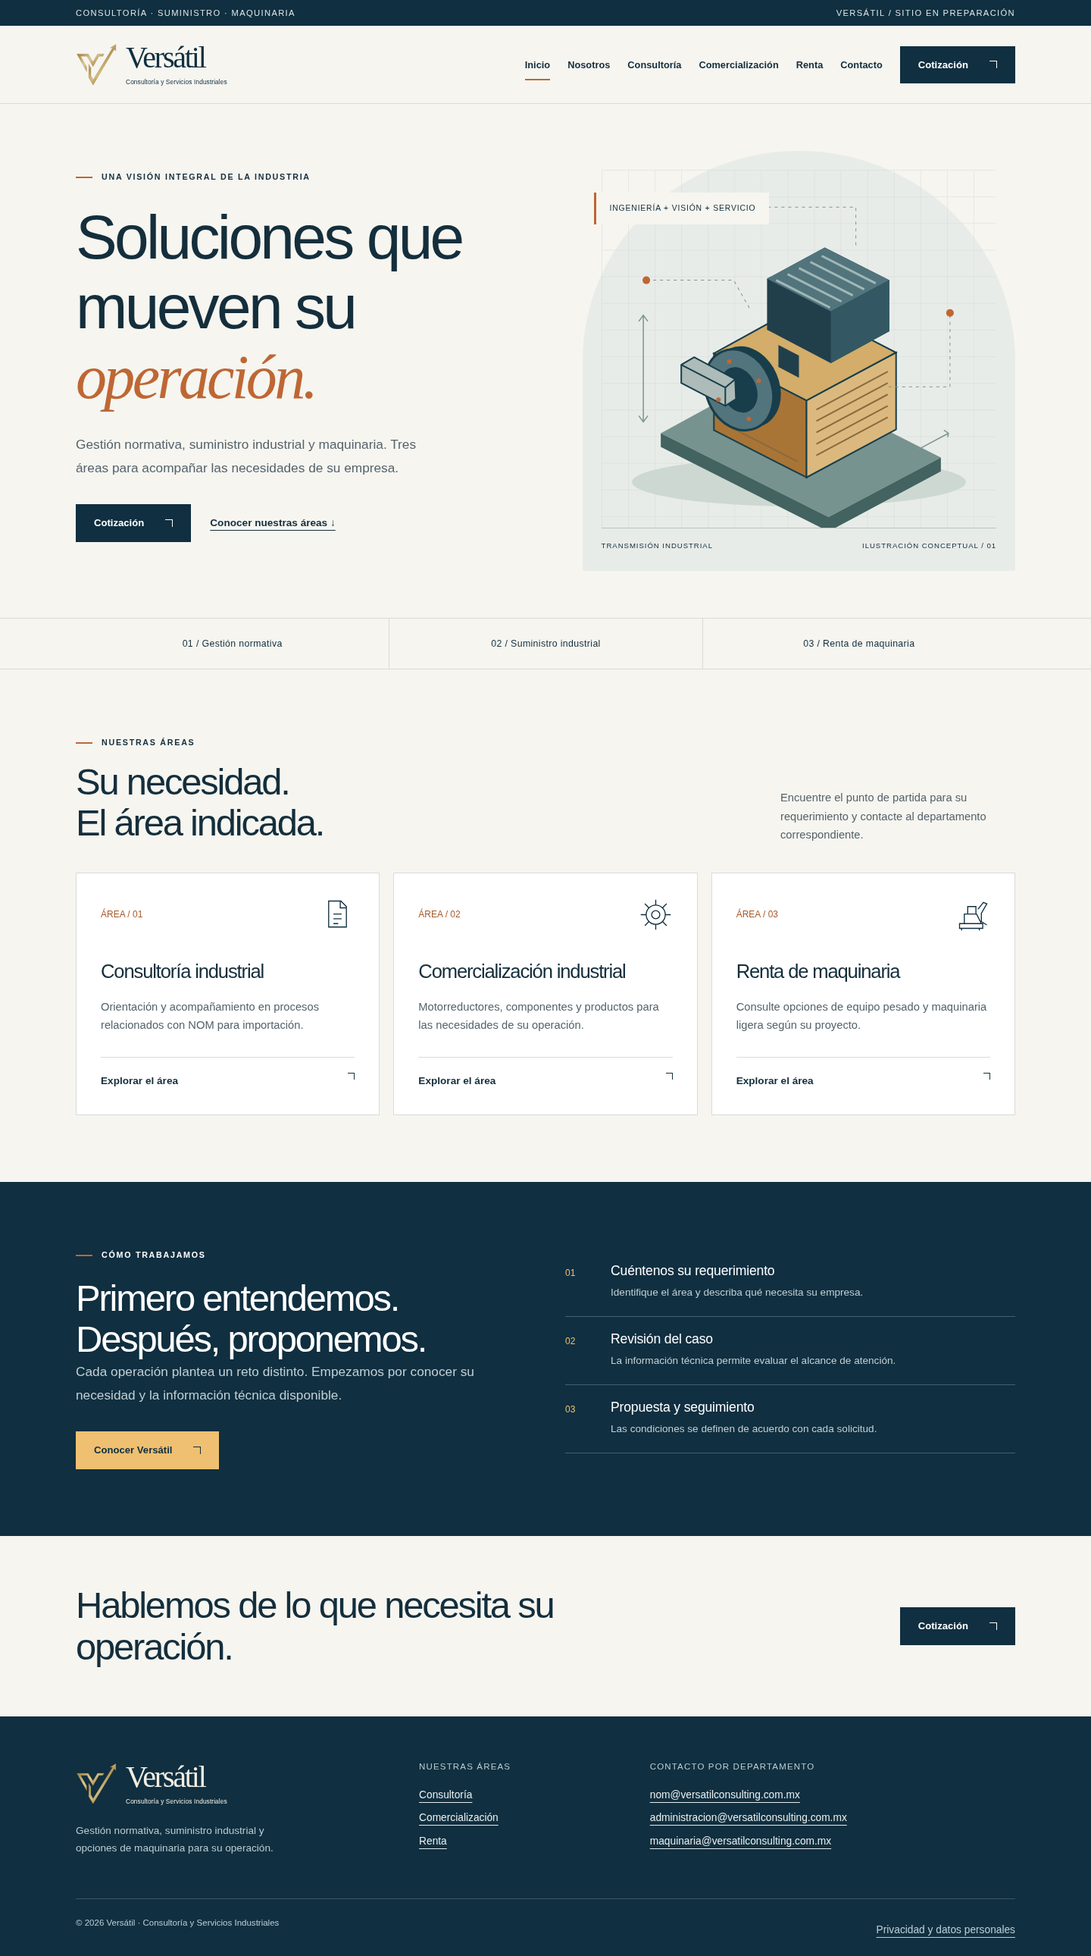
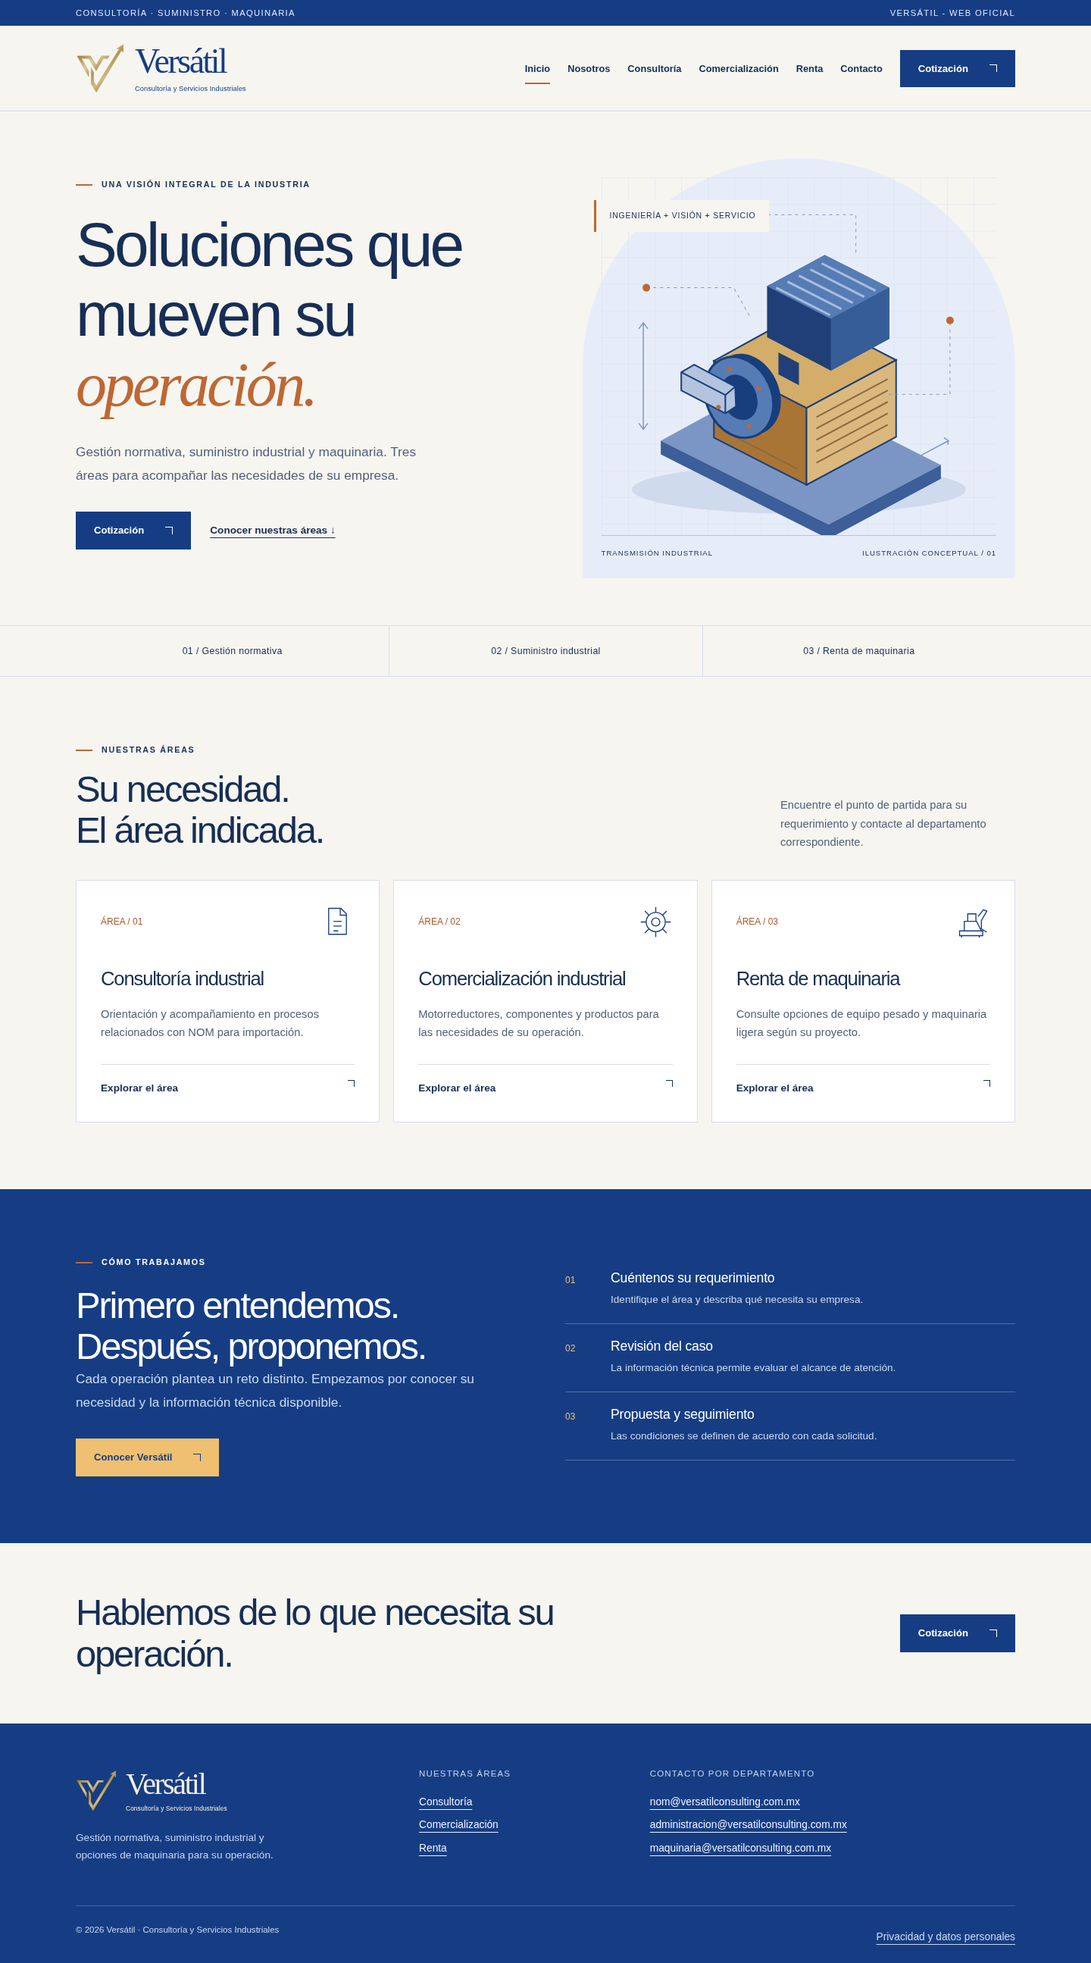
Actualizar azul corporativo, leyenda oficial y tamaño de marca

diff --git a/public/assets/styles.css b/public/assets/styles.css
@@ -1,6 +1,6 @@
 @layer base, layout, components, motion, responsive;
 @layer base {
-  :root { --ink:#142e3c; --navy:#102f40; --paper:#f6f5f0; --line:#d8dcd8; --muted:#54636b; --accent:#be6734; --accent-text:#a8592b; --gold:#efc071; --white:#fff; }
+  :root { --ink:#172e55; --navy:#163d83; --paper:#f6f5f0; --line:#d6ddeb; --muted:#526079; --accent:#be6734; --accent-text:#a8592b; --gold:#efc071; --white:#fff; }
   * { box-sizing:border-box; }
   html { scroll-behavior:smooth; scroll-padding-top:100px; }
   body { margin:0; background:var(--paper); color:var(--ink); font-family:Arial, Helvetica, sans-serif; font-size:16px; line-height:1.65; }
@@ -21,12 +21,16 @@
 }
 @layer layout {
   .container { width:min(1240px, calc(100% - 96px)); margin-inline:auto; }
-  .topline { background:var(--navy); color:#dbe4e7; font-size:.7rem; letter-spacing:.12em; text-transform:uppercase; padding:8px 0; }
+  .topline { background:var(--navy); color:#e1e9fb; font-size:.7rem; letter-spacing:.12em; text-transform:uppercase; padding:8px 0; }
   .topline .container { display:flex; justify-content:space-between; gap:20px; }
   .header { border-bottom:1px solid var(--line); background:var(--paper); }
-  .header-inner { display:flex; align-items:center; justify-content:space-between; gap:30px; min-height:102px; }
+  .header-inner { display:flex; align-items:center; justify-content:space-between; gap:30px; min-height:112px; }
   .brand { text-decoration:none; display:flex; align-items:center; gap:12px; flex-shrink:0; width:254px; line-height:1; color:var(--navy); }
   .brand-symbol { display:block; flex-shrink:0; width:54px; height:auto; }
+  .header .brand { width:286px; gap:14px; }
+  .header .brand-symbol { width:64px; }
+  .header .brand-name { font-size:46px; }
+  .header .brand-tagline { font-size:9.2px; }
   .brand-type { display:grid; gap:7px; }
   .brand-name { font-family:Georgia, 'Times New Roman', serif; font-size:40px; font-weight:400; letter-spacing:-.055em; }
   .brand-tagline { font-size:8.4px; line-height:1.4; letter-spacing:.01em; white-space:nowrap; }
@@ -53,12 +57,12 @@
   .reading { max-width:800px; }
   .reading h2 { margin-bottom:25px; }
   .reading h3 { margin-top:30px; margin-bottom:15px; }
-  .footer { background:var(--navy); color:#e7eded; padding-top:60px; }
+  .footer { background:var(--navy); color:#edf2ff; padding-top:60px; }
   .footer-grid { display:grid; grid-template-columns:1.1fr .7fr 1.3fr; gap:45px; padding-bottom:55px; }
-  .footer h3 { font-size:.72rem; letter-spacing:.1em; text-transform:uppercase; margin-bottom:20px; color:#b9cbd2; }
+  .footer h3 { font-size:.72rem; letter-spacing:.1em; text-transform:uppercase; margin-bottom:20px; color:#c5d4f1; }
   .footer a:not(.brand) { display:block; font-size:.86rem; margin-top:8px; overflow-wrap:anywhere; }
-  .footer p { max-width:300px; color:#b9cbd2; font-size:.85rem; margin-top:22px; }
-  .footer-bottom { display:flex; justify-content:space-between; gap:20px; border-top:1px solid #3d5663; padding-block:22px; font-size:.72rem; color:#bccdd5; }
+  .footer p { max-width:300px; color:#c5d4f1; font-size:.85rem; margin-top:22px; }
+  .footer-bottom { display:flex; justify-content:space-between; gap:20px; border-top:1px solid #42649c; padding-block:22px; font-size:.72rem; color:#c9d8f3; }
 }
 @layer components {
   .skip { position:absolute; top:-100px; z-index:10; padding:12px; background:white; }
@@ -69,13 +73,13 @@
   .actions { display:flex; flex-wrap:wrap; align-items:center; gap:25px; margin-top:32px; }
   .button { background:var(--navy); color:white; padding:13px 23px!important; text-decoration:none; display:inline-flex; gap:28px; align-items:center; border:1px solid transparent; font-size:.82rem; font-weight:600; transition:background .2s; }
   .button::after, .card .text-link span { content:''; display:block; flex:0 0 9px; width:9px; height:9px; border-top:1.5px solid currentColor; border-right:1.5px solid currentColor; font-size:0; }
-  .button:hover { background:#254e62; }
+  .button:hover { background:#214f9f; }
   .button.light { background:var(--gold); color:var(--navy); }
   .text-link { font-size:.85rem; font-weight:600; }
   .menu-toggle { display:none; border:1px solid var(--ink); background:transparent; padding:8px 14px; color:var(--ink); }
-  .hero-art { position:relative; padding:25px; background:#e8ece8; border-radius:50% 50% 3px 3px; }
+  .hero-art { position:relative; padding:25px; background:#e7edf8; border-radius:50% 50% 3px 3px; }
   .hero-art img { width:100%; }
-  .art-caption { display:flex; justify-content:space-between; gap:15px; border-top:1px solid #b6c3c0; padding-top:15px; font-size:.6rem; letter-spacing:.1em; text-transform:uppercase; }
+  .art-caption { display:flex; justify-content:space-between; gap:15px; border-top:1px solid #b6c6e0; padding-top:15px; font-size:.6rem; letter-spacing:.1em; text-transform:uppercase; }
   .art-label { position:absolute; top:55px; left:15px; padding:12px 18px; background:var(--paper); border-left:3px solid var(--accent); font-size:.65rem; letter-spacing:.08em; }
   .strip { border-block:1px solid var(--line); }
   .strip .container { display:grid; grid-template-columns:repeat(3,1fr); }
@@ -87,15 +91,15 @@
   .card h3 { margin-bottom:20px; }
   .card p { color:var(--muted); font-size:.92rem; margin-bottom:30px; }
   .card .text-link { margin-top:auto; display:flex; justify-content:space-between; border-top:1px solid var(--line); padding-top:20px; text-decoration:none; }
-  .card:hover { border-color:#9daea9; }
+  .card:hover { border-color:#91a9ce; }
   .dark-section { background:var(--navy); color:white; }
   .dark-section h2 { margin-top:20px; }
-  .dark-section .intro { color:#c0cfd5; }
+  .dark-section .intro { color:#cbd9f3; }
   .steps { margin:0; padding:0; list-style:none; counter-reset:step; }
-  .steps li { counter-increment:step; display:grid; grid-template-columns:40px 1fr; gap:20px; border-bottom:1px solid #45616e; padding:20px 0; }
+  .steps li { counter-increment:step; display:grid; grid-template-columns:40px 1fr; gap:20px; border-bottom:1px solid #5070a7; padding:20px 0; }
   .steps li::before { content:'0' counter(step); font-size:.75rem; color:var(--gold); padding-top:3px; }
   .steps h3 { font-size:1.1rem; letter-spacing:-.01em; margin-bottom:7px; }
-  .steps p { color:#bfced4; font-size:.85rem; }
+  .steps p { color:#c9d8f1; font-size:.85rem; }
   .cta { display:flex; justify-content:space-between; align-items:center; gap:35px; padding-block:64px; }
   .cta h2 { max-width:700px; }
   .panel { background:white; border:1px solid var(--line); padding:32px; }
@@ -140,8 +144,8 @@
     .button:focus-visible { transform:translateY(-2px); }
     .card:focus-within {
       transform:translateY(-4px);
-      border-color:#9daea9;
-      box-shadow:0 14px 32px -24px #142e3c80;
+      border-color:#91a9ce;
+      box-shadow:0 14px 32px -24px #172e5580;
     }
     .button:focus-visible::after, .card:focus-within .text-link span {
       transform:translate(2px, -2px);
@@ -149,18 +153,18 @@
     @media (hover:hover) and (pointer:fine) {
       .button:hover {
         transform:translateY(-2px);
-        box-shadow:0 8px 20px -12px #142e3c80;
+        box-shadow:0 8px 20px -12px #172e5580;
       }
       .button.light:hover { background:#f4cb84; }
       .card:hover {
         transform:translateY(-4px);
-        box-shadow:0 14px 32px -24px #142e3c80;
+        box-shadow:0 14px 32px -24px #172e5580;
       }
       .button:hover::after, .card:hover .text-link span { transform:translate(2px, -2px); }
       .brand:hover .brand-symbol { transform:translateY(-2px); }
       .nav a:not(.button):hover::after { transform:scaleX(1); }
     }
-    @media (max-width:900px) {
+    @media (max-width:960px) {
       .nav.is-open { animation:menu-enter 220ms ease-out; }
       .nav a:not(.button)::after { right:auto; width:28px; }
     }
@@ -172,13 +176,15 @@
 }
 @layer responsive {
   @media (max-width:1100px) { .container { width:calc(100% - 56px); } .nav { gap:13px; font-size:.73rem; } .hero { min-height:auto; } .card { padding:25px; } }
-  @media (max-width:900px) {
+  @media (max-width:960px) {
     .header-inner { flex-wrap:wrap; gap:0; min-height:90px; padding-block:18px; }
     .navigation-enhanced .menu-toggle { display:block; }
     .nav { display:flex; width:100%; flex-direction:column; align-items:stretch; gap:9px; padding-top:25px; font-size:.9rem; }
     .navigation-enhanced .nav:not(.is-open) { display:none; }
     .nav.is-open { display:flex; }
     .nav a { padding:10px; }
+  }
+  @media (max-width:900px) {
     .hero { grid-template-columns:1fr 1fr; gap:20px; }
     .hero h1 { font-size:clamp(2.5rem,6vw,4rem); }
     .hero-art { padding:15px; }
@@ -195,6 +201,10 @@
     .brand-symbol { width:44px; }
     .brand-name { font-size:35px; }
     .brand-tagline { font-size:7.5px; }
+    .header .brand { width:auto; max-width:calc(100% - 76px); gap:9px; }
+    .header .brand-symbol { width:50px; }
+    .header .brand-name { font-size:39px; }
+    .header .brand-tagline { font-size:7.5px; }
     .topline .container span:last-child { display:none; }
     .hero { grid-template-columns:1fr; padding-block:42px; gap:40px; }
     .hero h1 { font-size:3.1rem; }

diff --git a/public/index.html b/public/index.html
@@ -5,7 +5,7 @@
     <meta name="viewport" content="width=device-width, initial-scale=1">
     <meta name="description" content="Consultoría relacionada con NOM, comercialización industrial y renta de maquinaria. Conozca las tres áreas de Versátil.">
     <meta name="robots" content="noindex,nofollow">
-    <meta name="theme-color" content="#102f40">
+    <meta name="theme-color" content="#163d83">
     <title>
       Soluciones para su operación industrial | Versátil
     </title>
@@ -23,7 +23,7 @@
           Consultoría · Suministro · Maquinaria
         </span>
         <span>
-          Versátil / Sitio en preparación
+          Versátil - Web Oficial
         </span>
       </div>
     </div>

diff --git a/public/comercializacion/productos-industriales/index.html b/public/comercializacion/productos-industriales/index.html
@@ -5,7 +5,7 @@
     <meta name="viewport" content="width=device-width, initial-scale=1">
     <meta name="description" content="Cuéntenos qué producto necesita y para qué aplicación. El área comercial revisará el alcance de atención.">
     <meta name="robots" content="noindex,nofollow">
-    <meta name="theme-color" content="#102f40">
+    <meta name="theme-color" content="#163d83">
     <title>
       Productos industriales | Versátil
     </title>
@@ -23,7 +23,7 @@
           Consultoría · Suministro · Maquinaria
         </span>
         <span>
-          Versátil / Sitio en preparación
+          Versátil - Web Oficial
         </span>
       </div>
     </div>

diff --git a/public/aviso-de-privacidad/index.html b/public/aviso-de-privacidad/index.html
@@ -5,7 +5,7 @@
     <meta name="viewport" content="width=device-width, initial-scale=1">
     <meta name="description" content="Información sobre el tratamiento de datos personales en las solicitudes de cotización de Versátil.">
     <meta name="robots" content="noindex,nofollow">
-    <meta name="theme-color" content="#102f40">
+    <meta name="theme-color" content="#163d83">
     <title>
       Privacidad y datos personales | Versátil
     </title>
@@ -23,7 +23,7 @@
           Consultoría · Suministro · Maquinaria
         </span>
         <span>
-          Versátil / Sitio en preparación
+          Versátil - Web Oficial
         </span>
       </div>
     </div>

diff --git a/public/renta/index.html b/public/renta/index.html
@@ -5,7 +5,7 @@
     <meta name="viewport" content="width=device-width, initial-scale=1">
     <meta name="description" content="Consulte opciones de equipo pesado y maquinaria ligera según las necesidades de su proyecto.">
     <meta name="robots" content="noindex,nofollow">
-    <meta name="theme-color" content="#102f40">
+    <meta name="theme-color" content="#163d83">
     <title>
       Renta de maquinaria | Versátil
     </title>
@@ -23,7 +23,7 @@
           Consultoría · Suministro · Maquinaria
         </span>
         <span>
-          Versátil / Sitio en preparación
+          Versátil - Web Oficial
         </span>
       </div>
     </div>

diff --git a/public/comercializacion/index.html b/public/comercializacion/index.html
@@ -5,7 +5,7 @@
     <meta name="viewport" content="width=device-width, initial-scale=1">
     <meta name="description" content="Motorreductores y productos industriales: consulte su requerimiento con Versátil.">
     <meta name="robots" content="noindex,nofollow">
-    <meta name="theme-color" content="#102f40">
+    <meta name="theme-color" content="#163d83">
     <title>
       Comercialización industrial | Versátil
     </title>
@@ -23,7 +23,7 @@
           Consultoría · Suministro · Maquinaria
         </span>
         <span>
-          Versátil / Sitio en preparación
+          Versátil - Web Oficial
         </span>
       </div>
     </div>

diff --git a/public/comercializacion/motorreductores/index.html b/public/comercializacion/motorreductores/index.html
@@ -5,7 +5,7 @@
     <meta name="viewport" content="width=device-width, initial-scale=1">
     <meta name="description" content="Comparta los datos de su equipo o aplicación para orientar la revisión de su requerimiento.">
     <meta name="robots" content="noindex,nofollow">
-    <meta name="theme-color" content="#102f40">
+    <meta name="theme-color" content="#163d83">
     <title>
       Motorreductores | Versátil
     </title>
@@ -23,7 +23,7 @@
           Consultoría · Suministro · Maquinaria
         </span>
         <span>
-          Versátil / Sitio en preparación
+          Versátil - Web Oficial
         </span>
       </div>
     </div>

diff --git a/public/cotizar/index.html b/public/cotizar/index.html
@@ -5,7 +5,7 @@
     <meta name="viewport" content="width=device-width, initial-scale=1">
     <meta name="description" content="Solicite una cotización por correo a Consultoría, Comercialización o Renta de Versátil.">
     <meta name="robots" content="noindex,nofollow">
-    <meta name="theme-color" content="#102f40">
+    <meta name="theme-color" content="#163d83">
     <title>
       Cotización | Versátil
     </title>
@@ -23,7 +23,7 @@
           Consultoría · Suministro · Maquinaria
         </span>
         <span>
-          Versátil / Sitio en preparación
+          Versátil - Web Oficial
         </span>
       </div>
     </div>

diff --git a/public/consultoria/index.html b/public/consultoria/index.html
@@ -5,7 +5,7 @@
     <meta name="viewport" content="width=device-width, initial-scale=1">
     <meta name="description" content="Orientación para evaluar casos relacionados con NOM para importación.">
     <meta name="robots" content="noindex,nofollow">
-    <meta name="theme-color" content="#102f40">
+    <meta name="theme-color" content="#163d83">
     <title>
       Consultoría industrial y NOM | Versátil
     </title>
@@ -23,7 +23,7 @@
           Consultoría · Suministro · Maquinaria
         </span>
         <span>
-          Versátil / Sitio en preparación
+          Versátil - Web Oficial
         </span>
       </div>
     </div>

diff --git a/public/contacto/index.html b/public/contacto/index.html
@@ -5,7 +5,7 @@
     <meta name="viewport" content="width=device-width, initial-scale=1">
     <meta name="description" content="Los tres correos de contacto de Consultoría, Comercialización y Renta de Versátil.">
     <meta name="robots" content="noindex,nofollow">
-    <meta name="theme-color" content="#102f40">
+    <meta name="theme-color" content="#163d83">
     <title>
       Contacto | Versátil
     </title>
@@ -23,7 +23,7 @@
           Consultoría · Suministro · Maquinaria
         </span>
         <span>
-          Versátil / Sitio en preparación
+          Versátil - Web Oficial
         </span>
       </div>
     </div>

diff --git a/public/nosotros/index.html b/public/nosotros/index.html
@@ -5,7 +5,7 @@
     <meta name="viewport" content="width=device-width, initial-scale=1">
     <meta name="description" content="Conozca las áreas de Consultoría y Servicios Industriales Versátil.">
     <meta name="robots" content="noindex,nofollow">
-    <meta name="theme-color" content="#102f40">
+    <meta name="theme-color" content="#163d83">
     <title>
       Nosotros | Versátil
     </title>
@@ -23,7 +23,7 @@
           Consultoría · Suministro · Maquinaria
         </span>
         <span>
-          Versátil / Sitio en preparación
+          Versátil - Web Oficial
         </span>
       </div>
     </div>

diff --git a/docs/DISENO.md b/docs/DISENO.md
@@ -12,17 +12,17 @@ El símbolo está trazado en SVG a partir de la referencia proporcionada y aprob
 
 | Variable CSS | Color | Uso |
 | --- | --- | --- |
-| `--ink` | `#142e3c` | Texto y detalles de alto contraste. |
-| `--navy` | `#102f40` | Encabezados, botones principales y pie. |
+| `--ink` | `#172e55` | Texto y detalles de alto contraste. |
+| `--navy` | `#163d83` | Azul corporativo en franja superior, botones principales y pie. |
 | `--paper` | `#f6f5f0` | Fondo claro corporativo. |
 | `--white` | `#ffffff` | Tarjetas y superficies. |
-| `--line` | `#d8dcd8` | Separadores y bordes. |
-| `--muted` | `#54636b` | Texto secundario. |
+| `--line` | `#d6ddeb` | Separadores y bordes. |
+| `--muted` | `#526079` | Texto secundario. |
 | `--accent` | `#be6734` | Acento cálido, indicadores y decoración. |
 | `--accent-text` | `#a8592b` | Etiquetas pequeñas con contraste corregido. |
 | `--gold` | `#efc071` | Botón claro y detalles sobre azul marino. |
 
-La V emplea un degradado propio en el SVG. La paleta describe la implementación actual; no sustituye un manual de marca impreso con equivalencias CMYK o Pantone aprobadas.
+La actualización visual del 10 de noviembre de 2026 sustituye los matices verdosos por azules también en la ilustración industrial y sus fondos. La V emplea un degradado propio en el SVG. La paleta describe la implementación actual; no sustituye un manual de marca impreso con equivalencias CMYK o Pantone aprobadas.
 
 ## Tipografía
 
@@ -35,7 +35,7 @@ Se emplean fuentes del sistema, sin descargas de servicios externos. El logotipo
 
 ## Componentes y orden visual
 
-- Franja superior de las tres líneas de negocio y estado del sitio.
+- Franja superior de las tres líneas de negocio y leyenda «Versátil - Web Oficial».
 - Cabecera con marca, navegación y botón Cotización.
 - Hero con titular, introducción y llamada a la acción; ilustración conceptual en Inicio.
 - Tarjetas numeradas de departamentos y categorías.
@@ -43,11 +43,13 @@ Se emplean fuentes del sistema, sin descargas de servicios externos. El logotipo
 - Tarjetas de correos con dirección completa y enlace para escribir.
 - Pie con la marca, departamentos, tres correos y enlace de privacidad.
 
+El logotipo del encabezado aumenta moderadamente: símbolo de 64 px y nombre de 46 px en escritorio; símbolo de 50 px y nombre de 39 px en móvil. El descriptor conserva su proporción y la marca del pie mantiene su tamaño.
+
 Los botones son sobrios, de forma rectangular y acompañados por una flecha dibujada con CSS. El sitio prioriza la lectura y la orientación por área.
 
 ## Adaptación a pantallas
 
-El contenedor principal tiene un máximo de 1240 px. Los ajustes principales están definidos a 1100, 900 y 600 px. El menú se convierte en un control desplegable cuando JavaScript está disponible en pantallas pequeñas. Sin JavaScript, los enlaces quedan visibles.
+El contenedor principal tiene un máximo de 1240 px. Los ajustes principales están definidos a 1100, 900 y 600 px, con el cambio de navegación a 960 px para dar espacio al logotipo ampliado. El menú se convierte en un control desplegable cuando JavaScript está disponible en pantallas pequeñas. Sin JavaScript, los enlaces quedan visibles.
 
 Las pruebas cubren 1440, 768, 390 y 320 px. Las tarjetas pasan de varias columnas a una, los correos pueden partirse para evitar desbordamiento y la marca mantiene una composición proporcional.
 
@@ -72,9 +74,9 @@ Al modificar estilos compartidos se deben revisar Inicio, Contacto y Cotización
 
 ## Vistas de la publicación
 
-Capturas de la publicación real de Netlify, comprobada en escritorio y móvil, con movimiento reducido para registrar estados estables:
+Capturas de la actualización visual en escritorio y móvil, tomadas desde el servidor local con movimiento reducido para registrar estados estables:
 
 - [Inicio en escritorio](assets/inicio-escritorio.png).
 - [Inicio en móvil](assets/inicio-movil.png).
 
-Las diez páginas y los cuatro recursos públicos devolvieron 200. Sus catorce archivos se compararon por SHA-256 con el frontend auditado y coincidieron byte por byte.
+La comparación anterior de los catorce archivos públicos con Netlify corresponde a la versión previa a este ajuste visual. La actualización se entrega por separado para su publicación.
